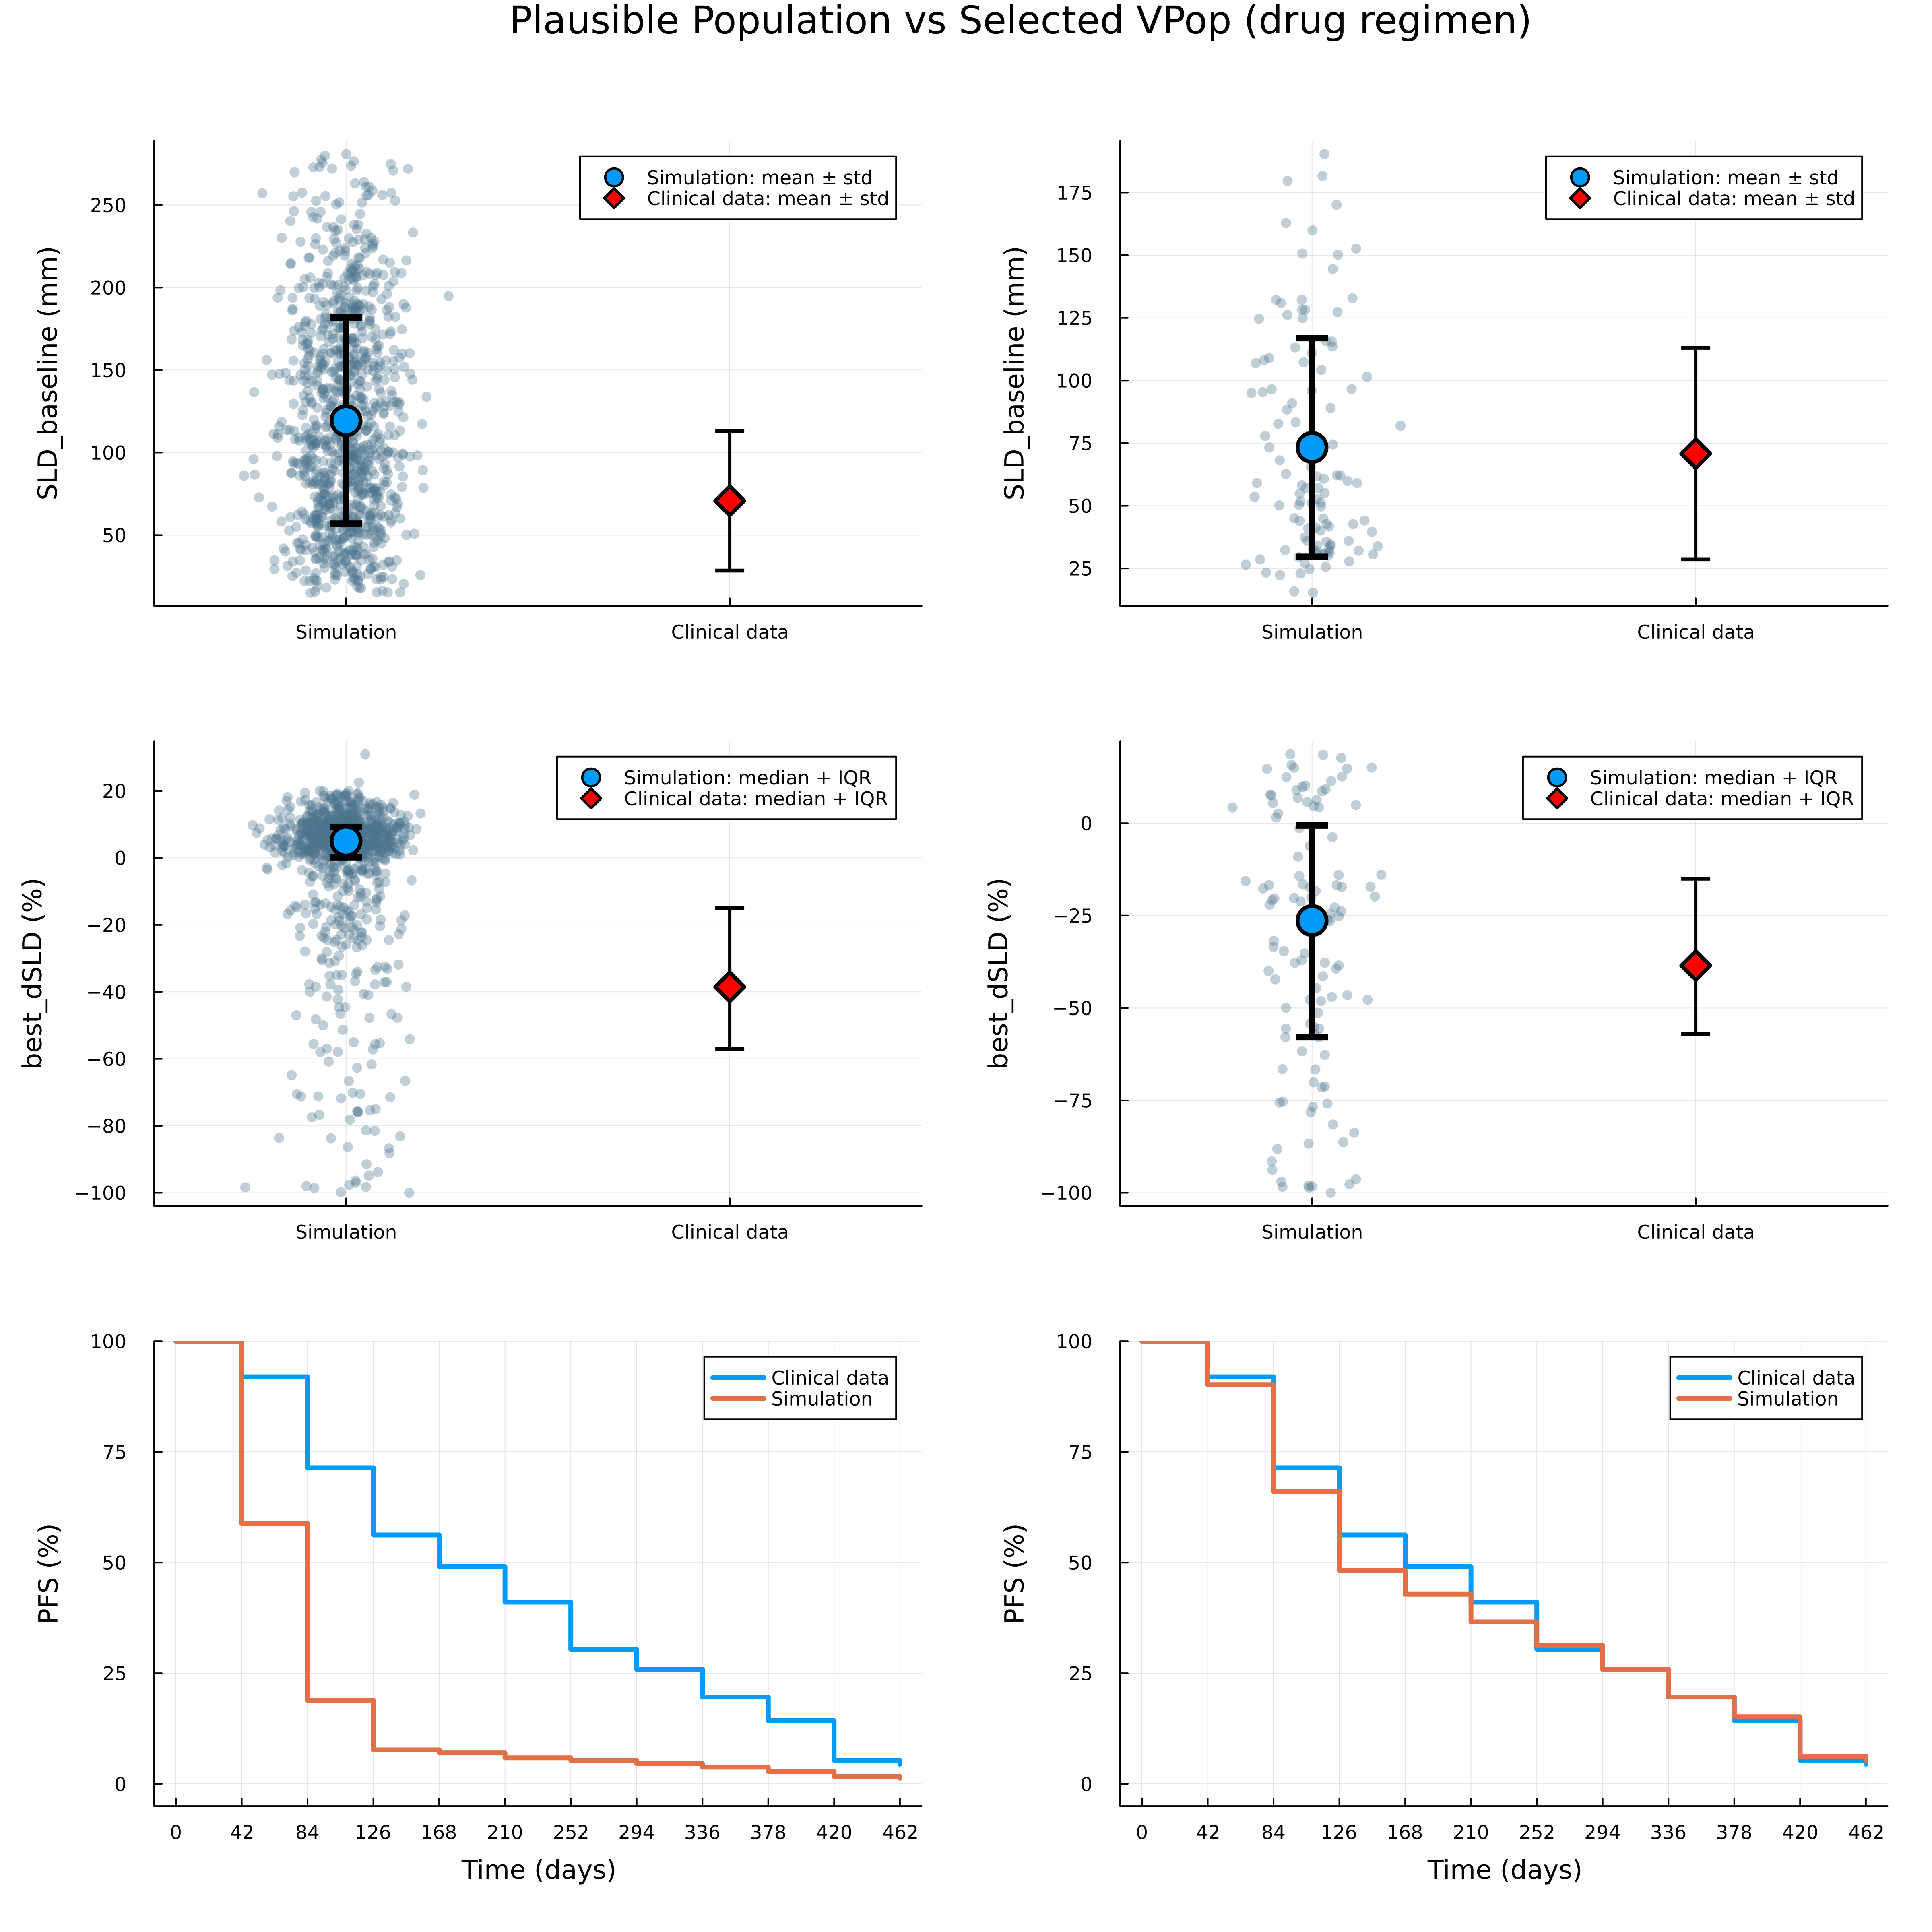
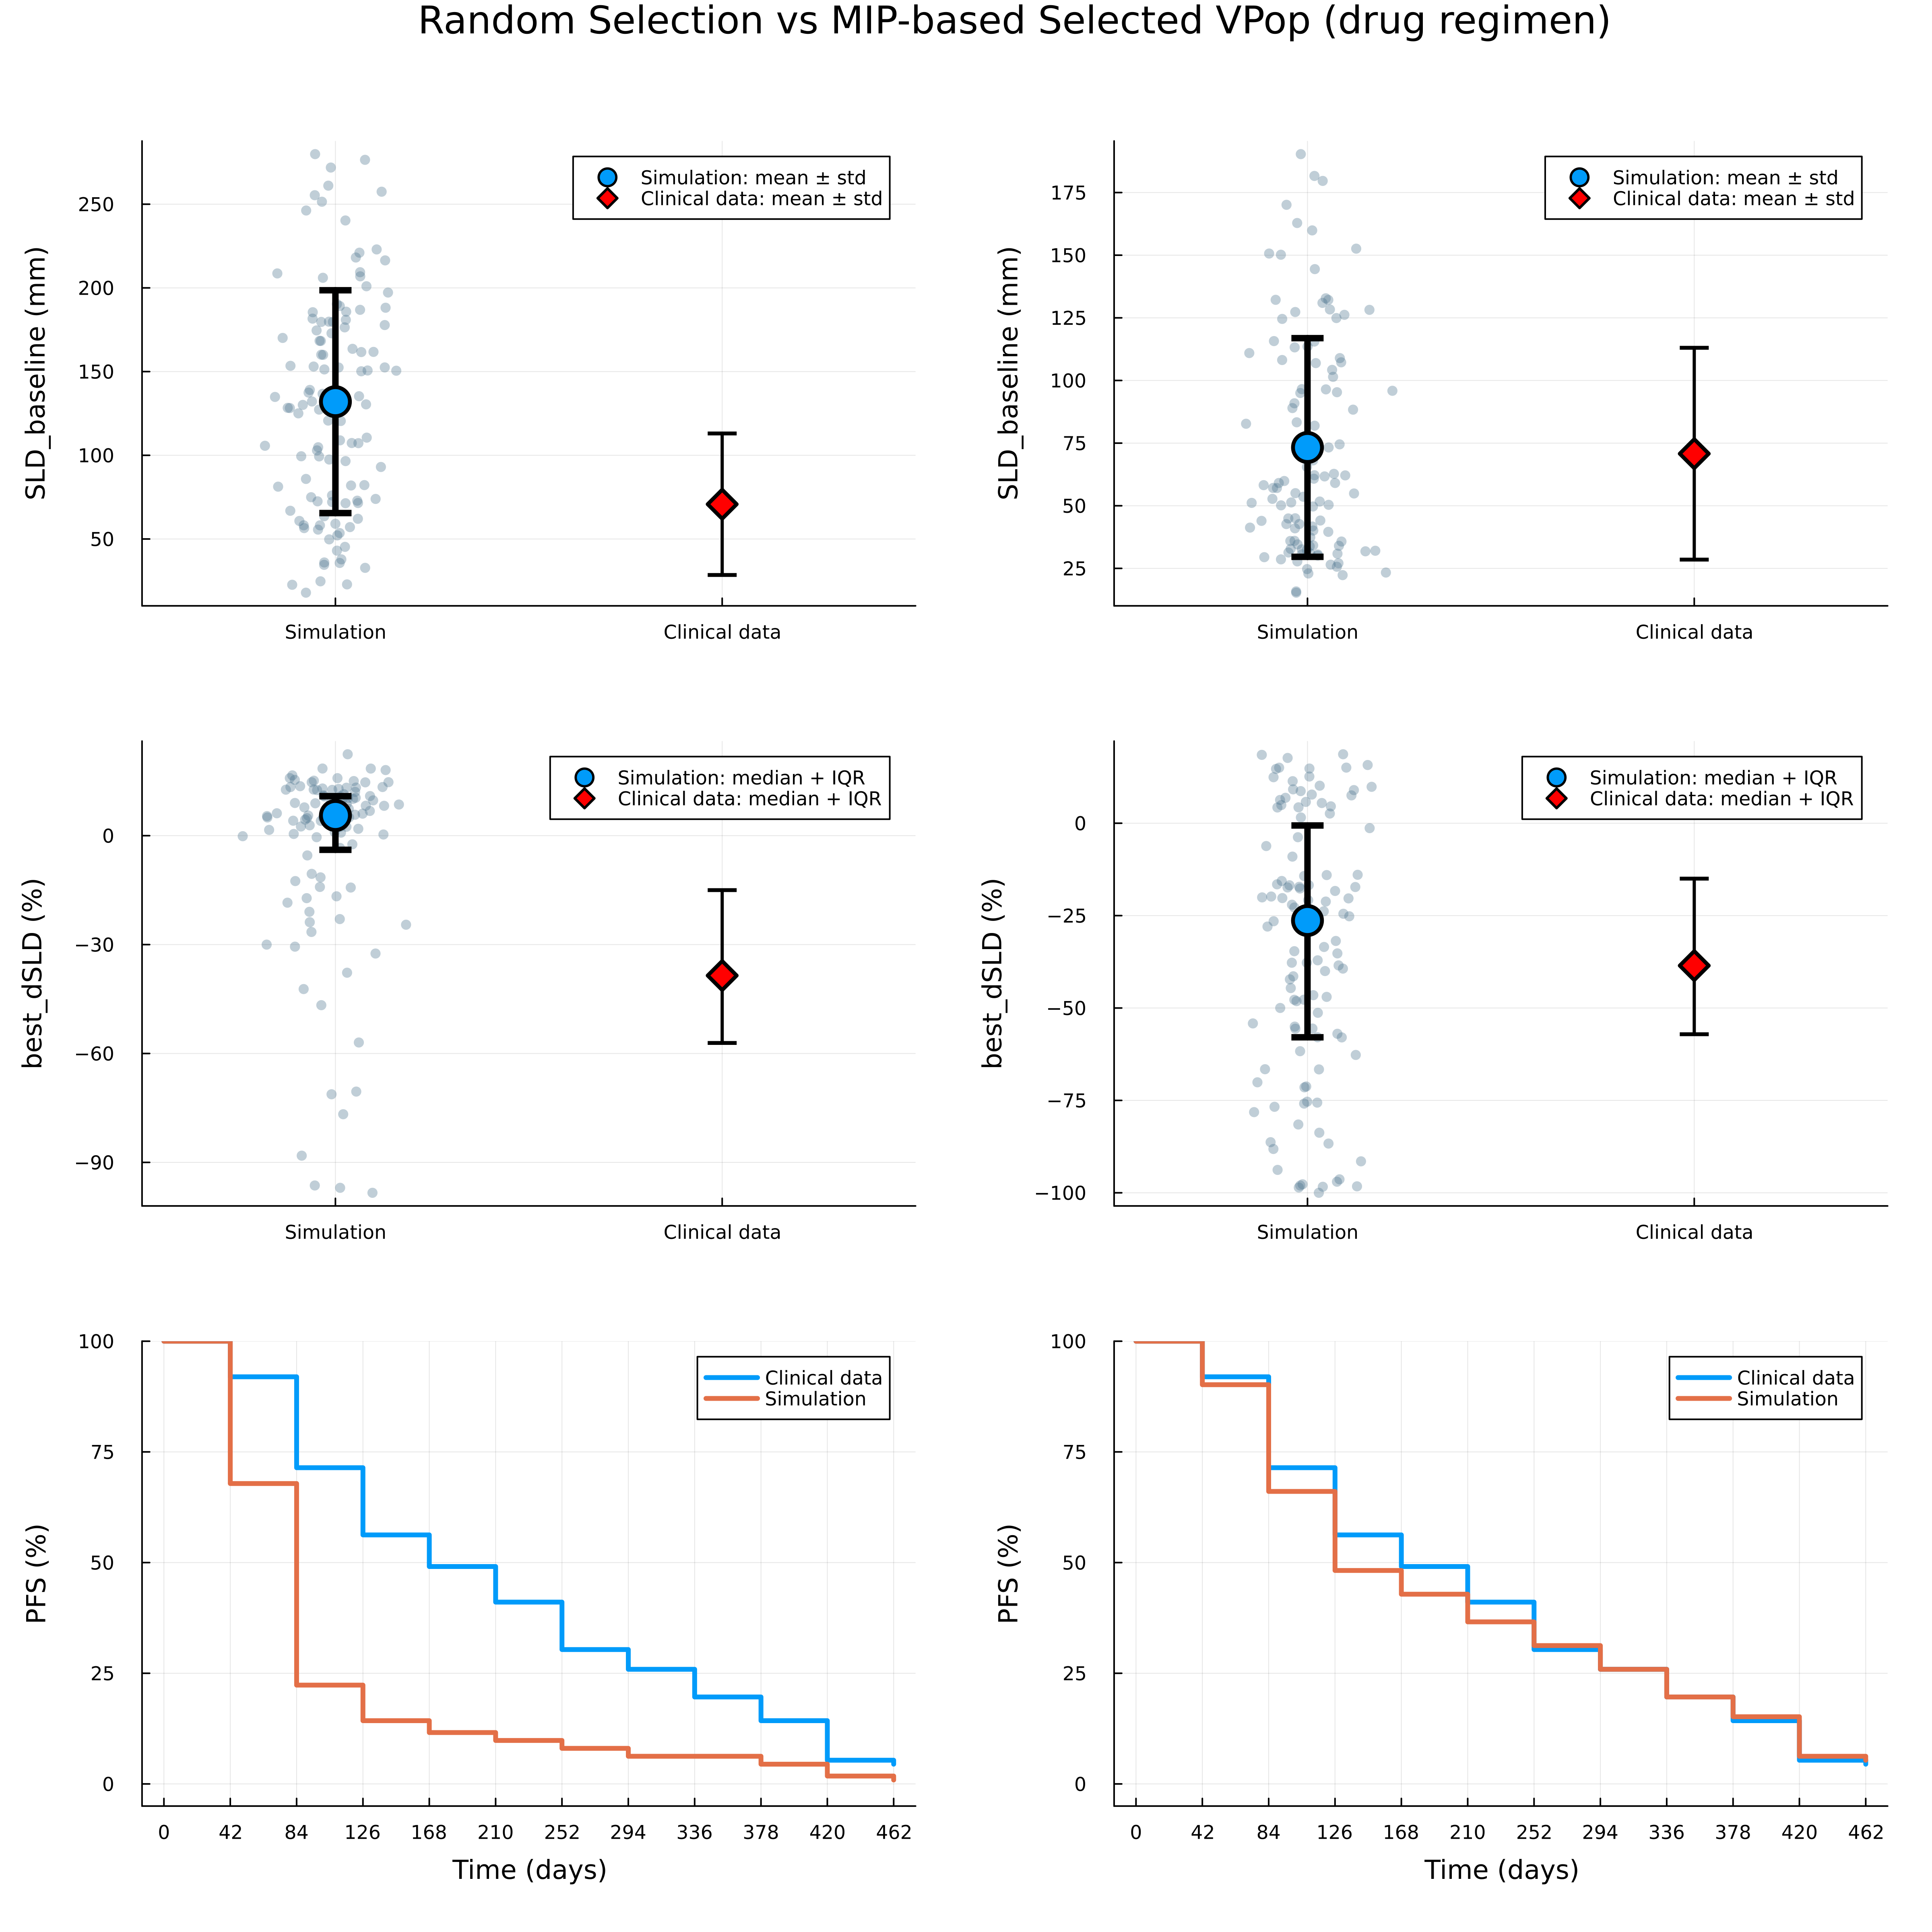
NSCLC tutorial updated

diff --git a/docs/src/tutorial/Braniff2024_NSCLC.md b/docs/src/tutorial/Braniff2024_NSCLC.md
@@ -10,18 +10,18 @@ In the original study, individual patient data were used for VPop selection, inc
 First, we load the simulated plausible population and use the `load_vpop` function to select the columns in the plausible patient table that correspond to clinically reported endpoints.
 
 ```julia
-using VPopMIP, CSV, DataFrames, Plots, StatsBase, StatsPlots
+using VPopMIP, CSV, DataFrames, Plots, StatsBase
 
-ppopdf = CSV.read("../../../models/Braniff2024/ppopdf1000.csv", DataFrame)
-ppop = load_vpop(ppopdf1000; endpoints=["best_dSLD", "time_to_best", "time_to_pfs", "SLD_baseline"])
+ppopdf = CSV.read("./models/Braniff2024/ppopdf1000.csv", DataFrame)
+ppop = load_vpop(ppopdf; endpoints=["best_dSLD", "time_to_best", "time_to_pfs", "SLD_baseline"])
 ```
 
 Next, we load clinical data (individual patient data for the *drug* and *placebo* regimens) and convert it into summary statistics using predefined metrics available in [DigiPopData](https://hetalang.github.io/DigiPopData.jl/dev/), to represent a more realistic scenario.
 
 ```julia
 # Experimental cohort
-exp_placebo = CSV.read("../../../models/Braniff2024/synthetic_cohort_placebo.csv", DataFrame)
-exp_drug = CSV.read("../../../models/Braniff2024/synthetic_cohort_drug.csv", DataFrame)
+exp_placebo = CSV.read("./models/Braniff2024/synthetic_cohort_placebo.csv", DataFrame)
+exp_drug = CSV.read("./models/Braniff2024/synthetic_cohort_drug.csv", DataFrame)
 expdf = vcat(exp_placebo, exp_drug)
 
 # size of cohort (assuming the same for drug and placebo)
@@ -77,11 +77,14 @@ vpnum = 112
 vpop = select_cohort(ppop, data, vpnum; scip_limits_gap = 0.01)
 ```
 
-We can also visualize the results and compare the plausible population with the selected cohort.
+We can also visualize the results and compare patients selected at random with those selected by the MIP algorithm.
 
 ```julia
 vpopdf = filter(:scenario => x -> x == "drug",DataFrame(vpop))
 ppopdf = filter(:scenario => x -> x == "drug",DataFrame(ppop))
+
+rand_vpopdf = ppopdf[sample(1:nrow(ppopdf), vpnum; replace=false), :]
+rand_vpop = load_vpop(rand_vpopdf)
 
 function SLD_base_sim_exp(
     df;
@@ -198,11 +201,11 @@ function dSLD_sim_exp(
     return p
 end
 
-p11 = SLD_base_sim_exp(ppopdf)
+p11 = SLD_base_sim_exp(rand_vpopdf)
 p12 = SLD_base_sim_exp(vpopdf)
-p21 = dSLD_sim_exp(ppopdf)
+p21 = dSLD_sim_exp(rand_vpopdf)
 p22 = dSLD_sim_exp(vpopdf)
-p31 = plot(ppop, pfs_drug_bind; dpi=400, xguide="Time (days)", yguide="PFS (%)")
+p31 = plot(rand_vpop, pfs_drug_bind; dpi=400, xguide="Time (days)", yguide="PFS (%)")
 p32 = plot(vpop, pfs_drug_bind; dpi=400, xguide="Time (days)", yguide="PFS (%)")
 
 p = plot(
@@ -212,7 +215,7 @@ p = plot(
     layout = (3, 2),
     size = (1200, 1200),
     margins=5Plots.mm, 
-    plot_title = "Plausible Population vs Selected VPop (drug regimen)"
+    plot_title = "Random Selection vs MIP-based Selected VPop (drug regimen)"
 )
 ```
 ![braniff2024plot](./Braniff2024plot.png)

diff --git a/docs/src/index.md b/docs/src/index.md
@@ -21,11 +21,10 @@ The researcher defines ranges and distributions for model parameters and perform
 
 2. **Selection of a VPop from the plausible population**
 Although the plausible population satisfies biological constraints, it does not necessarily reproduce clinical trial outcomes. The goal of this step is therefore to select a subset of patients that matches reported clinical endpoints.
-This subset selection problem is formulated as a mixed-integer programming (MIP) problem. Binary variables 𝑥𝑖 ∈ {0,1} indicate whether a plausible patient is included in the VPop, subject to a constraint on the desired VPop size. The objective function minimizes the mismatch between simulated and experimental data across multiple clinical endpoints.
+This subset selection problem is formulated as a mixed-integer programming (MIP) problem. Binary variables xᵢ ∈ {0,1} indicate whether a plausible patient is included in the VPop, subject to a constraint on the desired VPop size. The objective function minimizes the mismatch between simulated and experimental data across multiple clinical endpoints.
 Since individual patient data are often unavailable, the method focuses on endpoints reported as cohort-level statistics, such as means, std, quantiles, and survival data.
 
-Details on the mathematical formulation of the objective function terms, corresponding to different types of clinical data, can be found in DigiPopData package documentation:
-https://hetalang.github.io/DigiPopData.jl/dev/
+Details on the mathematical formulation of the objective function terms, corresponding to different types of clinical data, can be found in [DigiPopData package documentation](https://hetalang.github.io/DigiPopData.jl/dev/)
 
 ## Citation
 